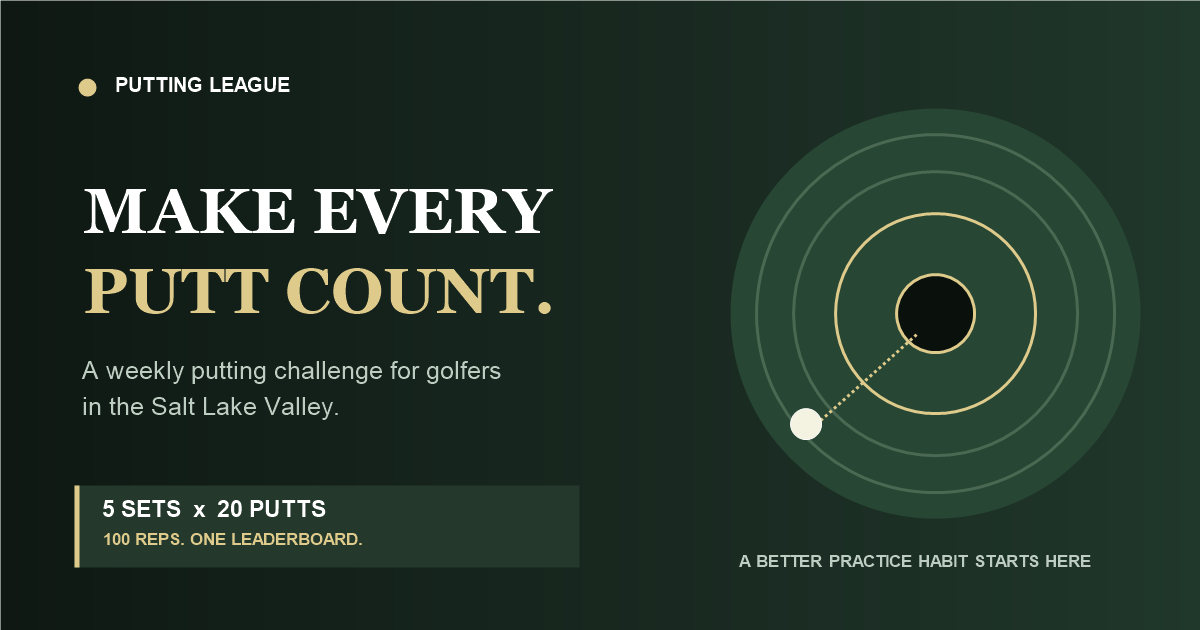
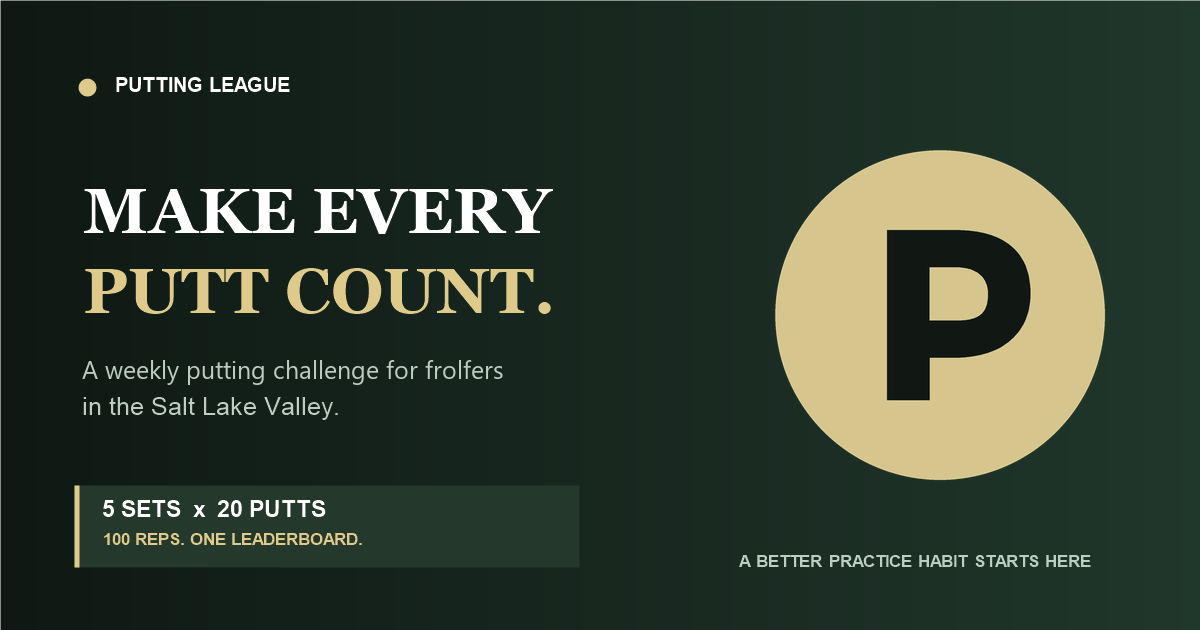
Update disc golf social preview copy

Changed region(s): [[0.5858, 0.2111, 0.925, 0.7841], [0.0617, 0.573, 0.4317, 0.6032]]

diff --git a/templates/pages/placeholder.home.html b/templates/pages/placeholder.home.html
@@ -1,11 +1,11 @@
 {% extends 'layouts/main.html' %}
 {% block title %}Weekly standings{% endblock %}
-{% block description %}A free weekly putting challenge for golfers in the Salt Lake Valley. Log five sets of 20 putts, follow the leaderboard, and build a steady practice habit.{% endblock %}
+{% block description %}A free weekly putting challenge for frolfers in the Salt Lake Valley. Log five sets of 20 putts, follow the leaderboard, and build a steady practice habit.{% endblock %}
 {% block social_metadata %}
   <meta property="og:type" content="website">
   <meta property="og:site_name" content="Putting League">
   <meta property="og:title" content="Make Every Putt Count | Putting League">
-  <meta property="og:description" content="A free weekly putting challenge for golfers in the Salt Lake Valley. Log five sets of 20 putts, follow the leaderboard, and build a steady practice habit.">
+  <meta property="og:description" content="A free weekly putting challenge for frolfers in the Salt Lake Valley. Log five sets of 20 putts, follow the leaderboard, and build a steady practice habit.">
   <meta property="og:url" content="{{ url_for('home', _external=True) }}">
   <meta property="og:image" content="{{ url_for('static', filename='share-preview.png', _external=True) }}">
   <meta property="og:image:width" content="1200">
@@ -13,7 +13,7 @@
   <meta property="og:image:alt" content="Putting League — Make Every Putt Count">
   <meta name="twitter:card" content="summary_large_image">
   <meta name="twitter:title" content="Make Every Putt Count | Putting League">
-  <meta name="twitter:description" content="A free weekly putting challenge for golfers in the Salt Lake Valley. Log five sets of 20 putts, follow the leaderboard, and build a steady practice habit.">
+  <meta name="twitter:description" content="A free weekly putting challenge for frolfers in the Salt Lake Valley. Log five sets of 20 putts, follow the leaderboard, and build a steady practice habit.">
   <meta name="twitter:image" content="{{ url_for('static', filename='share-preview.png', _external=True) }}">
 {% endblock %}
 {% block content %}
@@ -24,7 +24,7 @@
         <summary aria-label="About the Putting League" title="About the Putting League">?</summary>
         <div class="league-help-panel" role="region" aria-label="About the Putting League">
           <strong>What is Putting League?</strong>
-          <p>A free virtual putting league for golfers in the Salt Lake Valley. Each week brings a rotating challenge: five sets of 20 putts, or 100 reps total. The goal is to build a steady practice habit by showing up and putting in reps.</p>
+          <p>A free virtual putting league for frolfers in the Salt Lake Valley. Each week brings a rotating challenge: five sets of 20 putts, or 100 reps total. The goal is to build a steady practice habit by showing up and putting in reps.</p>
         </div>
       </details>
     </div>

diff --git a/tests/test_app.py b/tests/test_app.py
@@ -315,6 +315,10 @@ class WeeklyLeagueTests(unittest.TestCase):
         self.assertEqual(response.status_code, 200)
         self.assertIn(b'<meta property="og:type" content="website">', response.data)
         self.assertIn(b'<meta property="og:title" content="Make Every Putt Count | Putting League">', response.data)
+        self.assertIn(
+            b'<meta property="og:description" content="A free weekly putting challenge for frolfers in the Salt Lake Valley.',
+            response.data,
+        )
         self.assertIn(b'<meta name="twitter:card" content="summary_large_image">', response.data)
         self.assertIn(
             b'<meta property="og:image" content="https://league.example.test/static/share-preview.png">',
